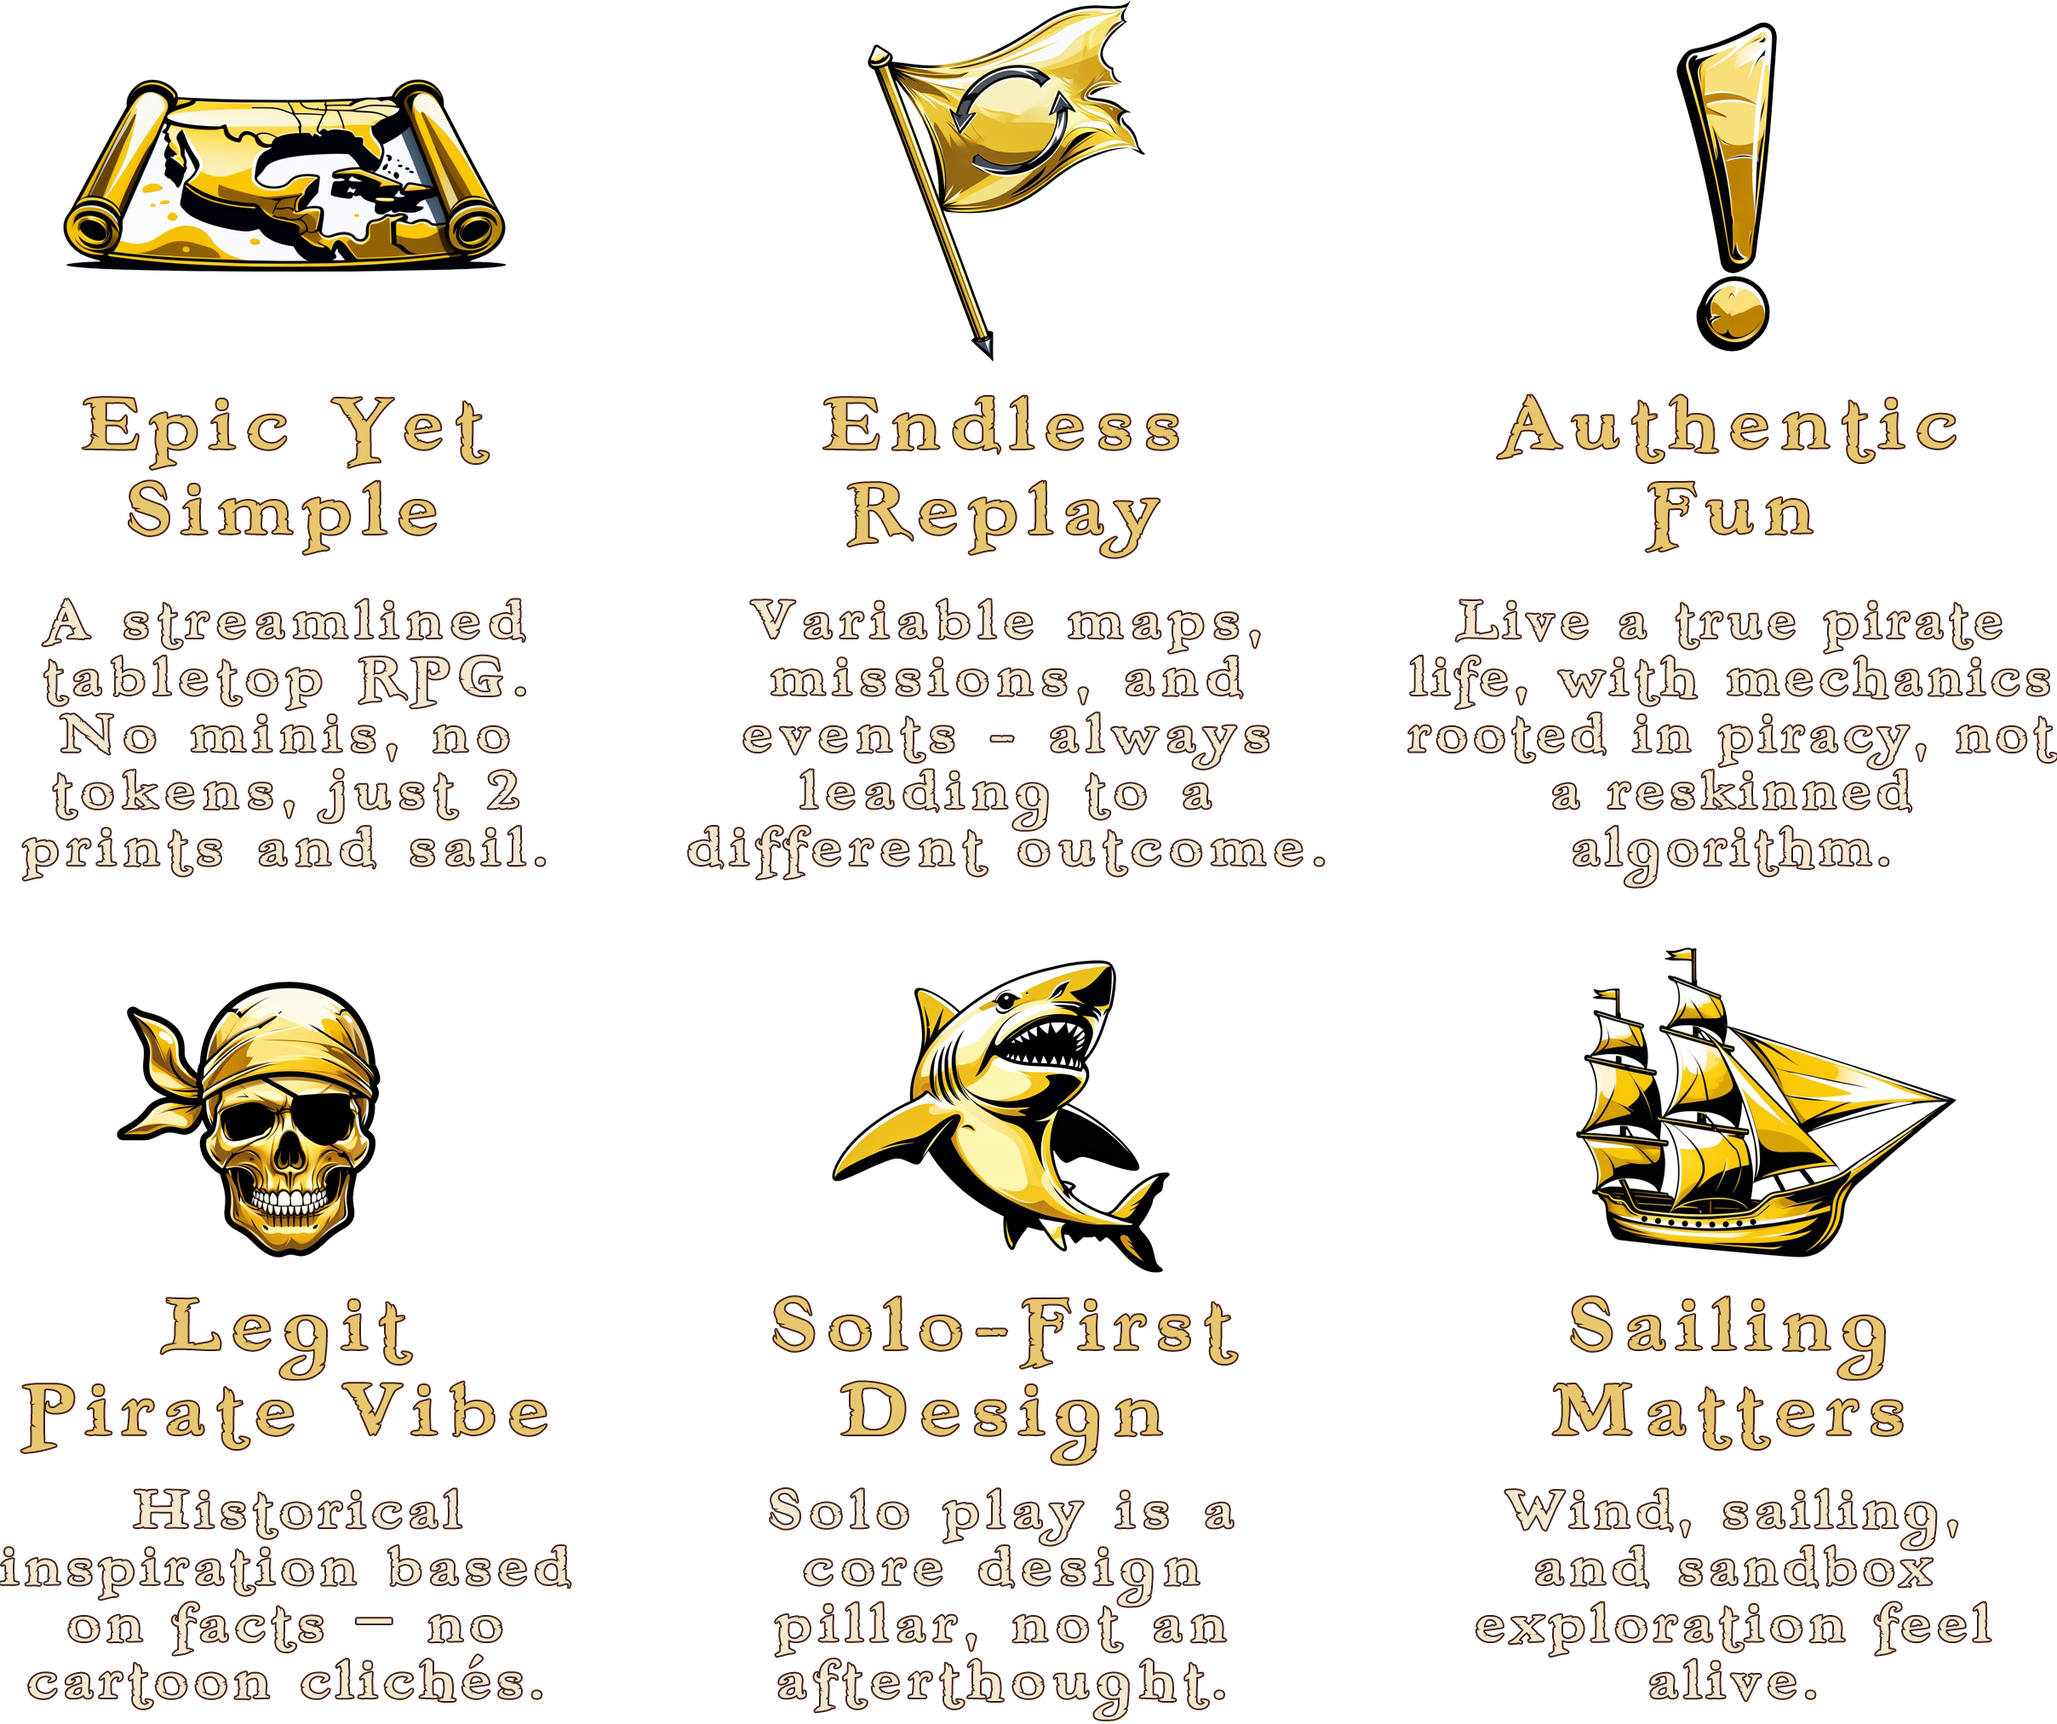
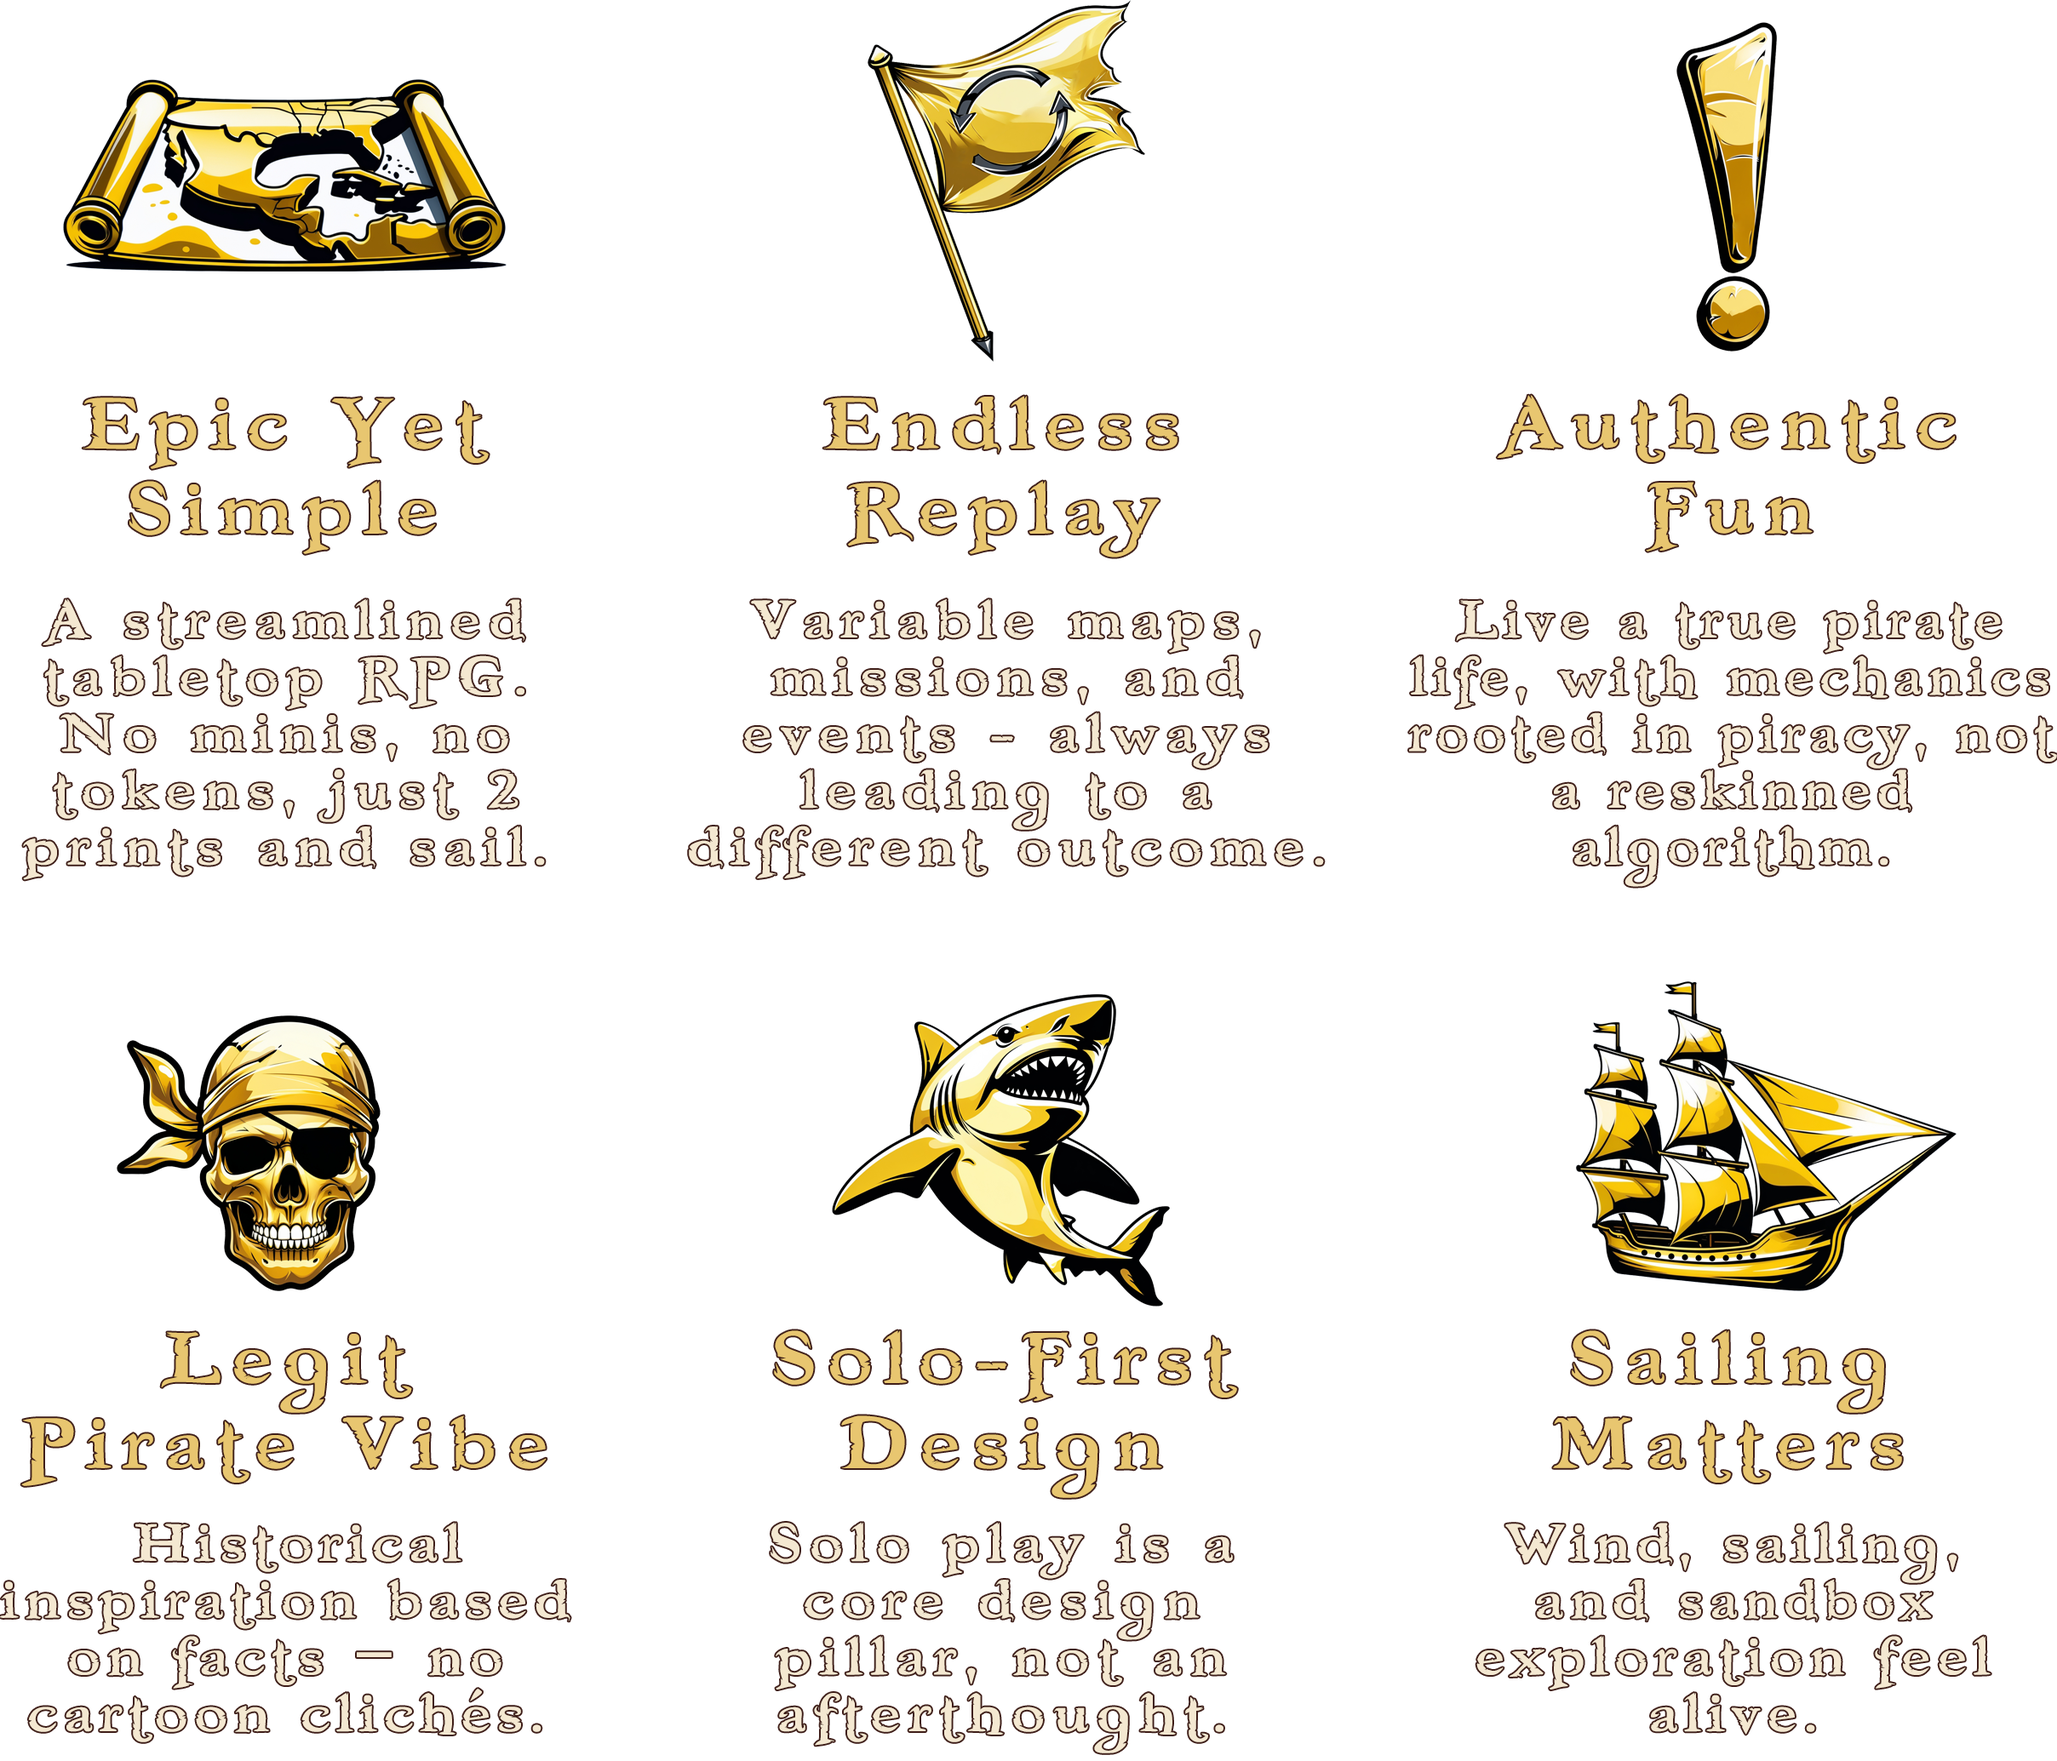
Add files via upload

diff --git a/index.html b/index.html
@@ -198,7 +198,7 @@
       display: block;
       width: 100px;
       height: 100px;
-      margin: 0.5rem auto 0.5rem;
+      margin: 1.5rem auto;
       object-fit: contain;
     }
     @media (max-width: 768px) {
